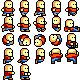
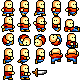
Sword!

Changed region(s): [[0.4, 0.85, 0.6, 0.975]]

diff --git a/src/player.js b/src/player.js
@@ -36,10 +36,17 @@ export class Player extends CollisionObject {
         this.climbingBegun = false;
     
         this.swimming = false;
+
+        this.sliderTimer = 0;
+
+        this.attackTimer = 0;
+        this.canAttack = false;
     }
 
 
     control(ev) {
+
+        const EPS = 0.1;
 
         const BASE_SPEED = 1.0;
         const CLIMB_SPEED = 0.5;
@@ -50,11 +57,34 @@ export class Player extends CollisionObject {
         const BASE_FRICTION_Y = 0.15;
         const SWIMMING_MOD_X = 0.5;
         const SWIMMING_MOD_Y = 0.25;
+        const SLIDE_TIME = 20;
+        const ATTACK_TIME = 20;
+
+        if (this.attackTimer > 0) return;
 
         this.target.x = BASE_SPEED * ev.input.stick.x;
         this.target.y = BASE_GRAVITY;
 
         let jumpButtonState = ev.input.actions["fire1"].state;
+
+        // Attacking
+        if (this.canAttack &&
+            ev.input.actions["fire2"].state == State.Pressed) {
+
+            if (ev.input.stick.x > EPS) 
+                this.flip = Flip.None;
+            else if (ev.input.stick.x < -EPS)
+                this.flip = Flip.Horizontal;
+
+            this.canAttack = false;
+            this.attackTimer = ATTACK_TIME;
+            this.stopMovement();
+
+            this.jumpTimer = 0;
+            this.sliderTimer = 0;
+
+            return;
+        }
 
         // If swimming, lower the friction (and target speeds)
         this.friction = new Vector2(BASE_FRICTION_X, BASE_FRICTION_Y);
@@ -75,7 +105,9 @@ export class Player extends CollisionObject {
 
             if (jumpButtonState == State.Pressed) {
 
-                this.jumpTimer = JUMP_TIME;
+                if (ev.input.stick.y < EPS)
+                    this.jumpTimer = JUMP_TIME;
+
                 this.doubleJump = false;
 
                 this.climbing = false;
@@ -87,7 +119,11 @@ export class Player extends CollisionObject {
         // Jumping and related actions
         if (jumpButtonState == State.Pressed) {
 
-            if (this.canJump || this.jumpMargin > 0 || !this.doubleJump) {
+            if (this.canJump && ev.input.stick.y > EPS) {
+
+                this.sliderTimer = SLIDE_TIME;
+            }
+            else if (this.canJump || this.jumpMargin > 0 || !this.doubleJump) {
 
                 this.doubleJump = !this.canJump && this.jumpMargin <= 0;
                 this.jumpTimer = this.doubleJump ? DOUBLE_JUMP_TIME : JUMP_TIME;
@@ -96,10 +132,13 @@ export class Player extends CollisionObject {
             }
             // Else: double jump etc.
         }
-        else if (jumpButtonState == State.Released &&
-                this.jumpTimer > 0) {
+        else if (jumpButtonState == State.Released ) {
 
-            this.jumpTimer = 0.0;
+            if (this.jumpTimer > 0)
+                this.jumpTimer = 0.0;
+
+            else if (this.sliderTimer > 0)
+                this.sliderTimer = 0.0;
         }
     }
 
@@ -112,6 +151,20 @@ export class Player extends CollisionObject {
 
         let animSpeed = 0.0;
         let animFrame = 0;
+
+        // Attacking, obviously
+        if (this.attackTimer > 0) {
+
+            this.spr.setFrame(0, 4);
+            return;
+        }
+
+        // Sliding
+        if (this.sliderTimer > 0) {
+
+            this.spr.setFrame(4, 1);
+            return;
+        }
 
         // Determine flipping first
         if (Math.abs(this.target.x) > EPS) {
@@ -139,7 +192,8 @@ export class Player extends CollisionObject {
         // Climbing
         if (this.climbing) {
 
-            if (Math.abs(this.target.y) > EPS) {
+            if (this.spr.row != 3 ||
+                Math.abs(this.target.y) > EPS) {
 
                 this.spr.animate(3, 3, 4, 10, ev.step);
             }
@@ -184,6 +238,7 @@ export class Player extends CollisionObject {
 
         const JUMP_SPEED = -2.0;
         const SWIMMING_MOD_Y = 0.5;
+        const SLIDE_SPEED = 2.0;
 
         if (this.jumpTimer > 0) {
 
@@ -194,8 +249,19 @@ export class Player extends CollisionObject {
             this.jumpTimer -= ev.step;
         }
 
+        if (this.sliderTimer > 0) {
+
+            this.speed.x = (this.flip == Flip.None ? 1 : -1) * SLIDE_SPEED;
+            this.target.x = this.speed.x;
+
+            this.sliderTimer -= ev.step;
+        }
+
         if (this.jumpMargin > 0)
             this.jumpMargin -= ev.step;
+
+         if (this.attackTimer > 0)
+            this.attackTimer -= ev.step;   
     }
 
 
@@ -226,6 +292,14 @@ export class Player extends CollisionObject {
         let px = Math.round(this.pos.x-8);
         let py = Math.round(this.pos.y-7);
 
+        if (this.attackTimer > 0) {
+
+            this.spr.drawFrame(c, c.bitmaps["figure"], 
+                2, 4,
+                px+12 - 24*this.flip, 
+                py+1, this.flip);
+        }
+
         this.spr.draw(c, c.bitmaps["figure"], px, py, this.flip);
     }
 
@@ -233,14 +307,20 @@ export class Player extends CollisionObject {
     floorCollisionEvent(x, y, w, ev) {
 
         const JUMP_MARGIN = 12;
+        const EPS = 0.1;
 
         this.canJump = true;
         this.doubleJump = false;
 
         this.jumpMargin = JUMP_MARGIN;
 
-        this.climbing = false;
-        this.climbingBegun = false;
+        if (this.speed.y > EPS) {
+
+            this.climbing = false;
+            this.climbingBegun = false;
+        }
+
+        this.canAttack = true;
     }
 
 
@@ -263,12 +343,13 @@ export class Player extends CollisionObject {
 
         // ...this looks a bit... ugly?
         if (!this.overlay(x+MINUS_MARGIN/2, y, w-MINUS_MARGIN, h)) {
-
+            
             return false;
         }
         
         if (this.climbingBegun) {
 
+            this.canAttack = true;
             if (yjump == undefined)
                 this.climbing = true;
                 
@@ -285,6 +366,7 @@ export class Player extends CollisionObject {
 
         if (up || down) {
 
+            this.canAttack = true;
             this.climbing = true;
             this.climbingBegun = true;
 
@@ -307,6 +389,9 @@ export class Player extends CollisionObject {
             this.swimming = true;
             this.jumpMargin = 1;
             this.doubleJump = false;
+            this.sliderTimer = 0;
+
+            this.canAttack = true;
 
             return true;
         }
